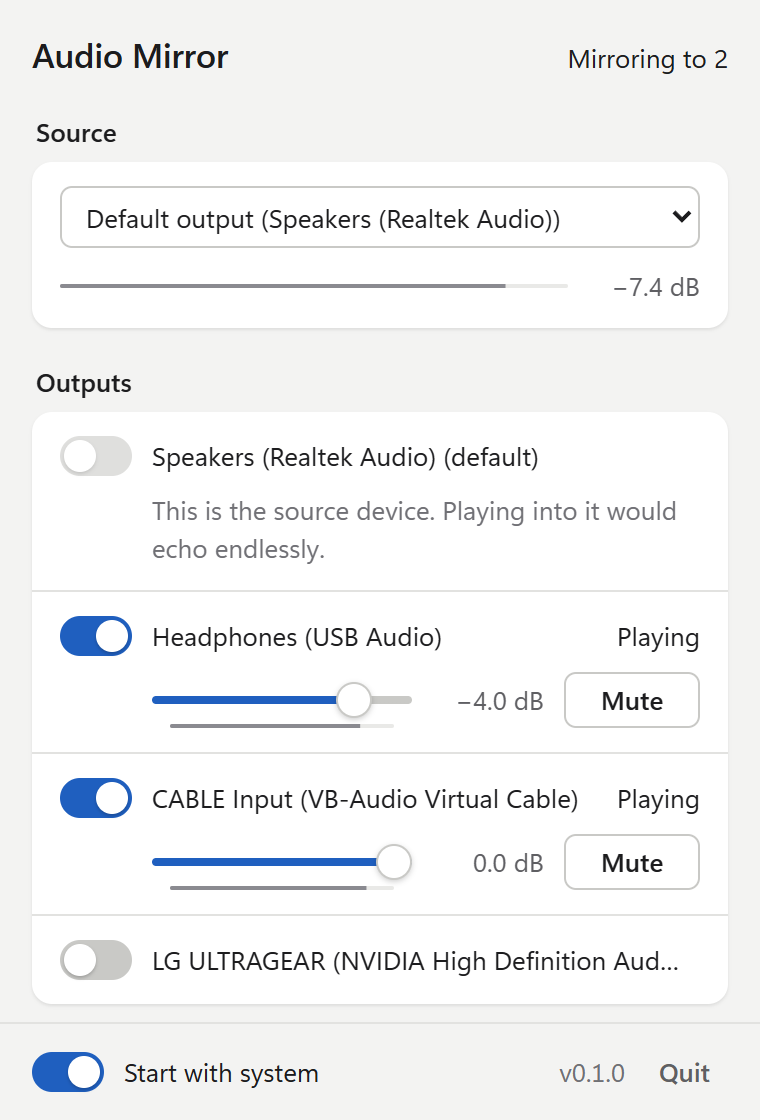
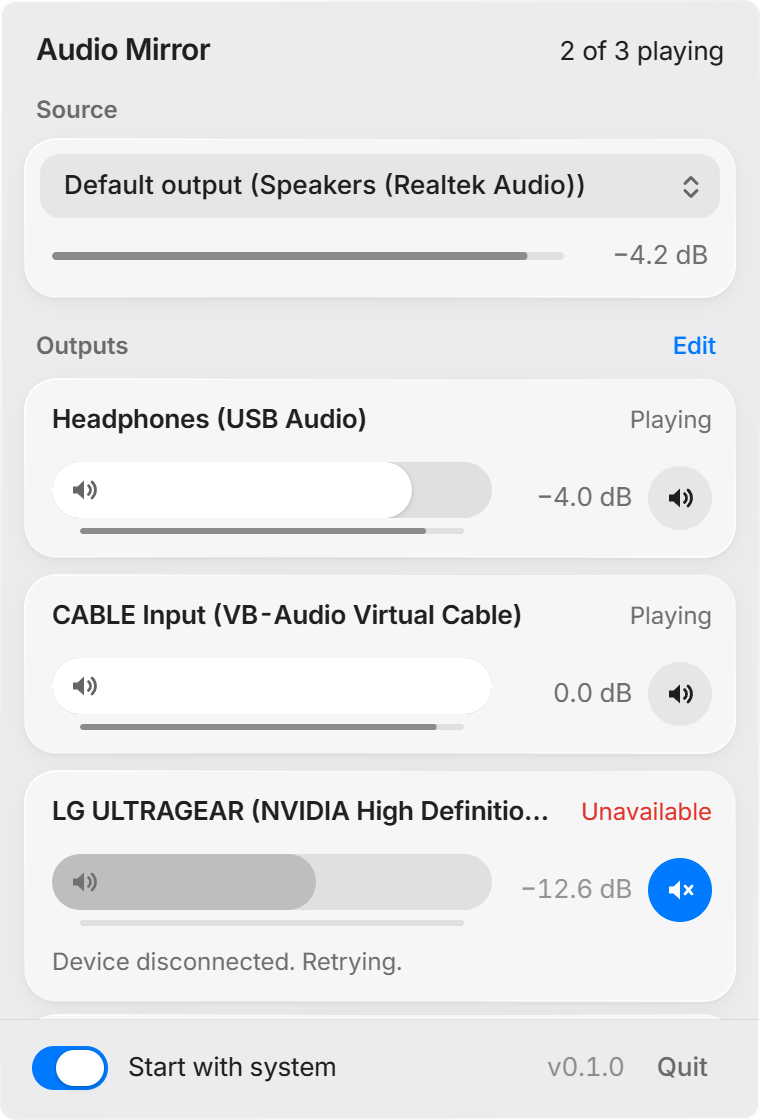
Update the README for the redesigned panel

diff --git a/README.md b/README.md
@@ -13,13 +13,13 @@
 <p align="center">
   <picture>
     <source media="(prefers-color-scheme: dark)" srcset="docs/images/panel-dark.png">
-    <img alt="The Audio Mirror panel: the default output is mirrored to headphones and a virtual cable, each with its own volume slider and Mute button" src="docs/images/panel-light.png" width="380">
+    <img alt="The Audio Mirror panel: the default output is mirrored to headphones and a virtual cable, each with its own volume slider and mute button" src="docs/images/panel-light.png" width="380">
   </picture>
 </p>
 
 You are streaming or recording. You want to hear your computer in your headphones, and you also need the same sound in a virtual cable, a capture card or a second PC. Windows, macOS and Linux only play sound on one device at a time. Audio Mirror fixes that.
 
-It sits in your tray. Pick a source, switch on the outputs that should play it, set each volume, and forget about it. It uses the same audio engine as OBS Studio's audio monitoring, the one streamers already trust on stage, without opening OBS and for several outputs at once.
+It sits in your tray. Pick a source, add the outputs that should play it, set each volume, and forget about it. It uses the same audio engine as OBS Studio's audio monitoring, the one streamers already trust on stage, without opening OBS and for several outputs at once.
 
 ## Contents
 
@@ -100,8 +100,8 @@ Most Linux trays do not report clicks on the icon itself: open the panel with **
 
 1. **Open the panel.** Left click the tray icon (on Linux, use **Open Audio Mirror** in its menu).
 2. **Pick a source.** Leave it on **Default output** to mirror everything your computer plays. The meter under the list moves when sound is coming in.
-3. **Switch on your outputs.** Every output device is listed. Turn on the ones that should play the source; mirroring starts as soon as one is on.
-4. **Set the volumes.** Drag each slider, or click **Mute** to silence one output without touching the others.
+3. **Add your outputs.** The devices that are not playing are folded under **other devices** at the bottom of the list: click **Show**, then **Add** next to the ones that should play the source. Mirroring starts as soon as one is added.
+4. **Set the volumes.** Drag each slider, or click the speaker button next to it to mute one output without touching the others.
 5. **Optional:** switch on **Start with system** at the bottom of the panel so the mirror is ready every time you log in.
 
 That's it. Click anywhere else or press <kbd>Esc</kbd> to hide the panel; the sound keeps flowing.
@@ -120,24 +120,22 @@ The meter and the dB reading under the list show the level coming in. If the sou
 
 ### Outputs
 
-Each output has a switch, a volume slider with its own level meter, and a **Mute** button. The top right corner of the panel sums everything up: **Off** when no output is on, **Mirroring to 2** when everything plays, **1 of 2 playing** when an output has a problem.
+Each output you added has a volume slider with its own level meter and a mute button (or press <kbd>M</kbd> while it has the focus). Click **Edit** above the list to **Rename** an output, where the system allows it, or **Remove** it from the mirror; it then goes back under **other devices**. The device being captured is never listed, so the sound cannot loop back into itself. The top right corner of the panel sums everything up: **Off** when no output is on, **Mirroring to 2** when everything plays, **1 of 2 playing** when an output has a problem.
 
 On the right of each output, a word tells you what it is doing:
 
 | Label | Meaning |
 | --- | --- |
 | Playing | Sound is going out. |
-| Muted | Running, but silenced by the **Mute** button. |
+| Muted | Running, but silenced by its mute button. |
 | Starting | The device is being opened. |
 | Waiting for source | The output is ready, the source is not. |
 | Unavailable | The device could not be opened. The reason is shown underneath and Audio Mirror tries again every 3 seconds. |
-| Skipped | This output is the device being captured. Playing into it would echo endlessly, so it is left out. |
-| Not connected | A device you had switched on is unplugged. It comes back by itself when you plug it in, or click **Forget** to remove it from the list. |
 
 <p align="center">
   <picture>
     <source media="(prefers-color-scheme: dark)" srcset="docs/images/output-states-dark.png">
-    <img alt="The panel with a disconnected monitor marked Unavailable, Device disconnected, Retrying, and an unplugged Bluetooth speaker marked Not connected with a Forget button" src="docs/images/output-states-light.png" width="380">
+    <img alt="The panel with a disconnected monitor marked Unavailable, Device disconnected, Retrying, and two other devices folded under the outputs" src="docs/images/output-states-light.png" width="380">
   </picture>
 </p>
 
@@ -173,8 +171,8 @@ Make sure something is playing on the device you picked. On macOS, check that Au
 **An output says "Unavailable".**
 Read the reason under it. The device may be unplugged, turned off, or held in exclusive mode by another app (on Windows, see **Sound settings > device properties > Advanced**). Audio Mirror retries every 3 seconds, so fixing the cause is enough.
 
-**An output says "Skipped", or its switch is greyed out.**
-That device is the one being captured. Choose another source if you want to play on it.
+**An output is missing from the list.**
+If it is the device being captured, it is left out on purpose: choose another source if you want to play on it. An output you added that is unplugged disappears from the list and comes back by itself, with its volume and mute, when you plug it in.
 
 **I hear an echo or a doubled sound.**
 You are probably hearing the same audio twice: once from the system and once from the mirror, on two devices that are both in your ears. Mute one of them in Audio Mirror, or pick a source that is not already playing in your headphones.
